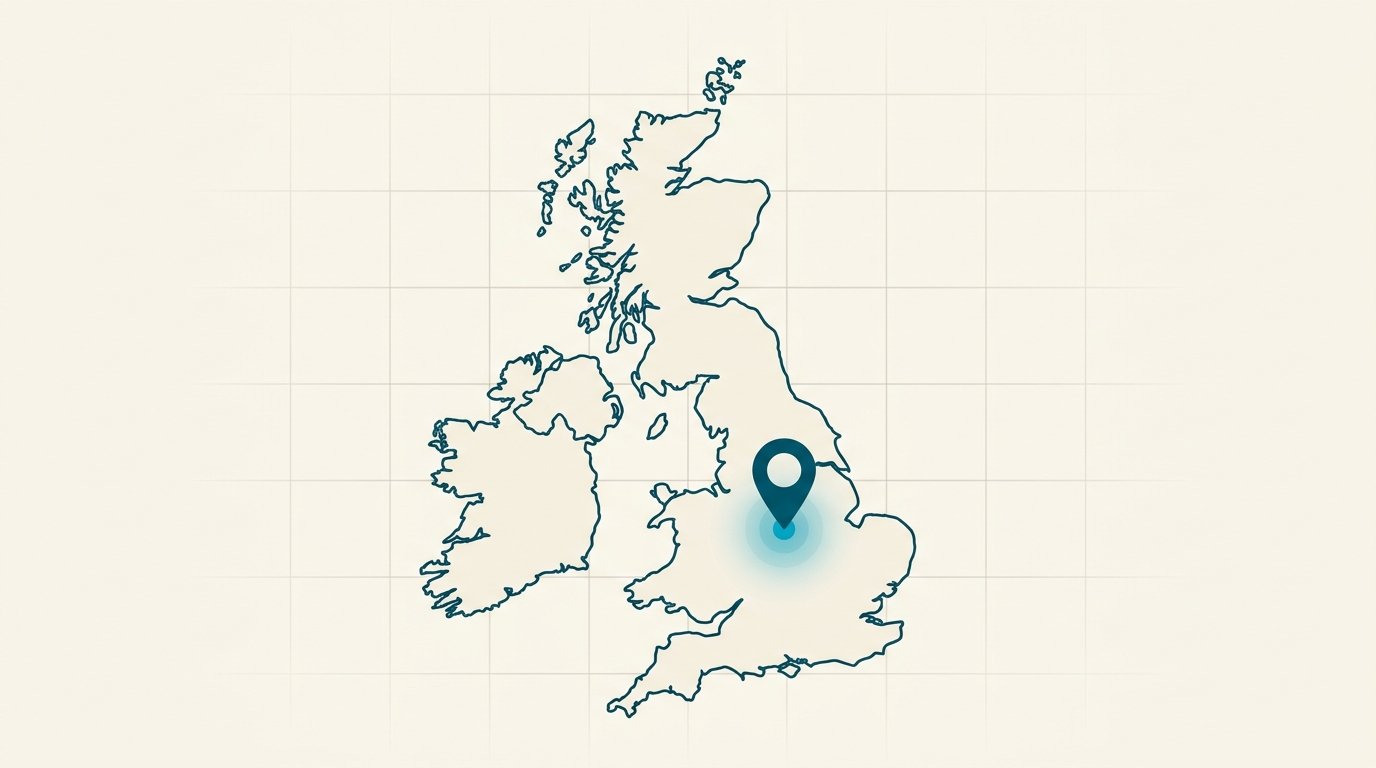
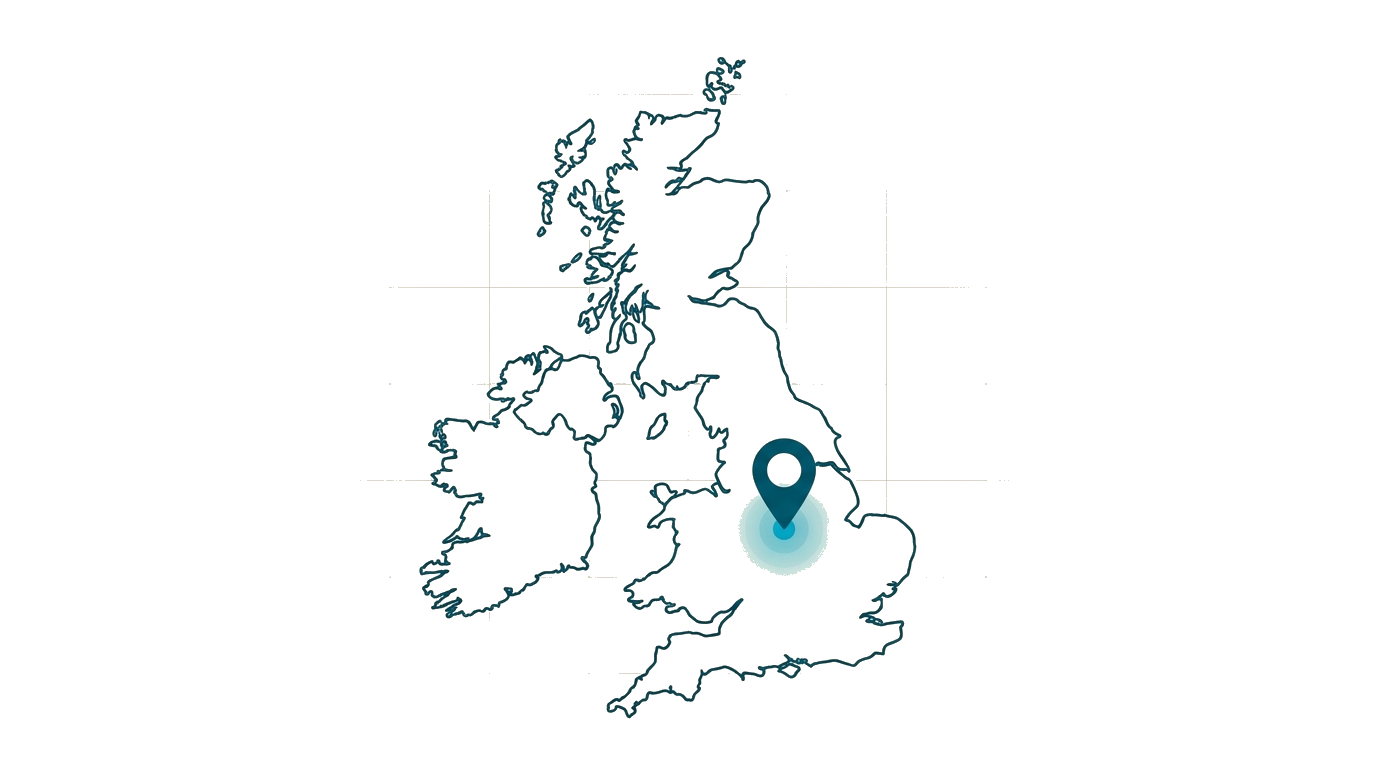
Remove map background, fix mobile stats, hero clipping, add shimmer
- Removed background and grid lines from uk map image (transparent)
- Mobile stats: smaller text to fit 3 columns without wrapping
- Hero rotate: added right padding so rounded corners aren't clipped
- Facility heading: "the UK." now has blue shimmer effect

diff --git a/index.html b/index.html
@@ -321,6 +321,7 @@ button { cursor: pointer; border: none; font-family: inherit; background: none; 
   height: 1.3em;
   overflow: hidden;
   margin-top: 0.1em;
+  padding-right: 2em;
 }
 .hero-rotate__word {
   display: inline-block;
@@ -1561,9 +1562,14 @@ h2 em[style*="teal"], h2 span[style*="teal"],
 .facility h2 em {
   font-family: 'Inter', sans-serif;
   font-style: normal;
-  font-weight: 500;
-  color: var(--teal);
+  font-weight: 600;
   text-transform: none;
+  background: linear-gradient(90deg, #00A6D2, #66e0ff, #00A6D2, #66e0ff);
+  background-size: 200% 100%;
+  -webkit-background-clip: text;
+  -webkit-text-fill-color: transparent;
+  background-clip: text;
+  animation: shimmer-text 3s linear infinite;
 }
 .facility-img {
   max-width: 360px;
@@ -1611,8 +1617,9 @@ h2 em[style*="teal"], h2 span[style*="teal"],
   letter-spacing: 0.06em;
 }
 @media (max-width: 600px) {
-  .facility-stats { flex-wrap: wrap; }
-  .facility-stats__item { flex: 0 0 33.33%; padding: 8px 10px; border-right: none; }
+  .facility-stats__item { padding: 0 12px; }
+  .facility-stats__number { font-size: 20px; }
+  .facility-stats__label { font-size: 9px; letter-spacing: 0.04em; }
 }
 
 /* ============================================================
